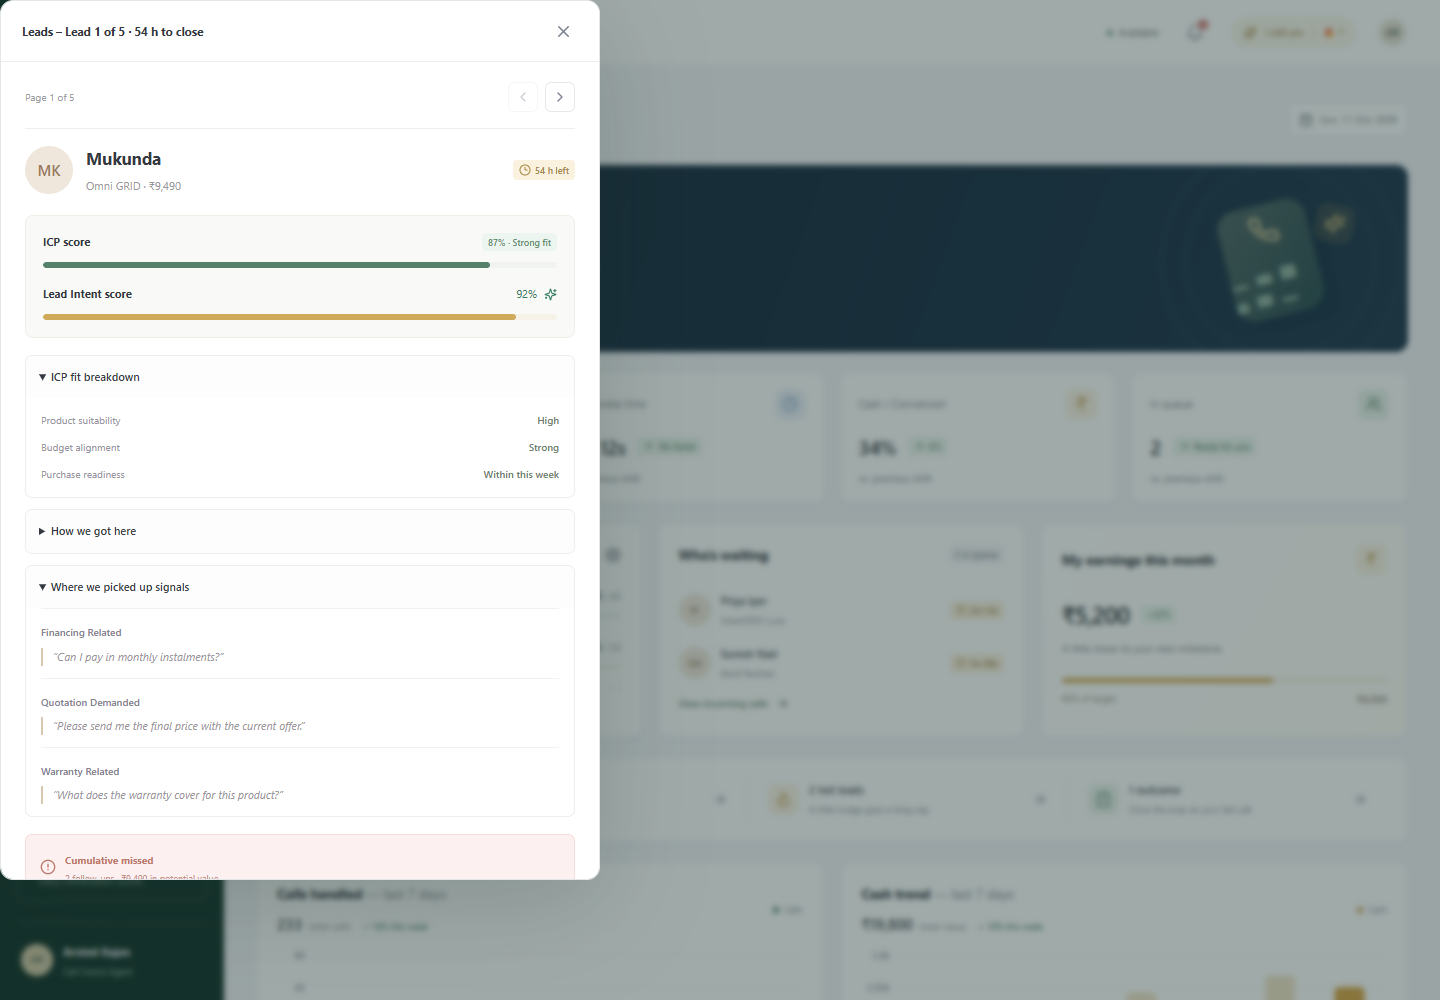
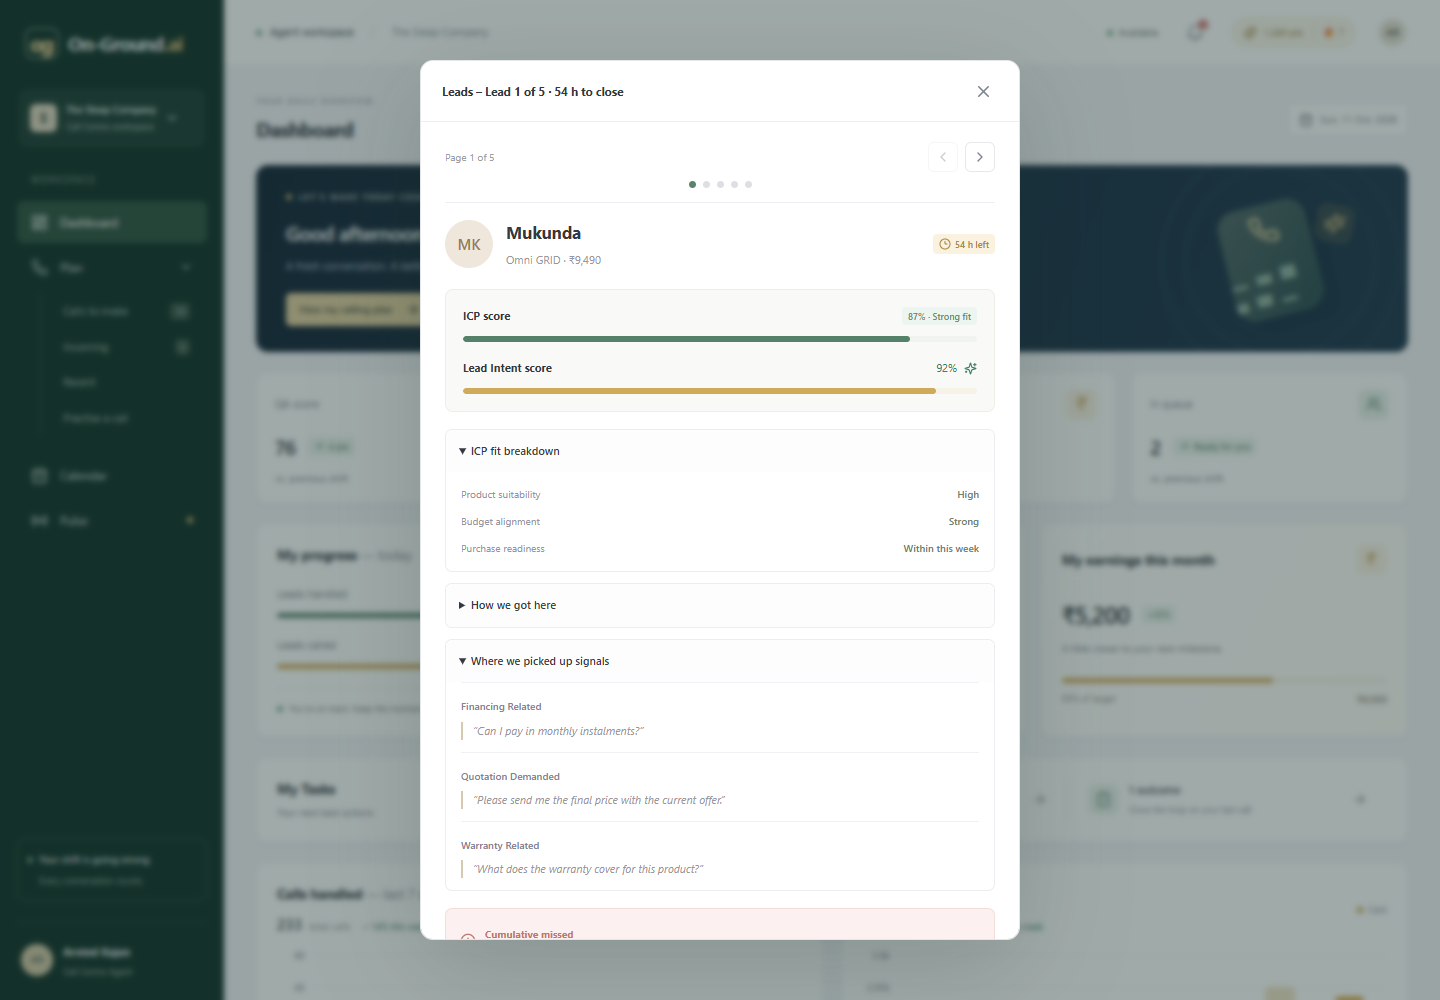
fix: center accessible dialogs and add lead navigation dots

diff --git a/src/components/Modal.tsx b/src/components/Modal.tsx
@@ -1,4 +1,4 @@
-import { useEffect, useRef, type ReactNode } from 'react';
+import { useEffect, useId, useRef, type ReactNode } from 'react';
 import { X } from 'lucide-react';
 export default function Modal({
   title,
@@ -12,6 +12,7 @@ export default function Modal({
   wide?: boolean;
 }) {
   const ref = useRef<HTMLDialogElement>(null);
+  const titleId = useId();
   useEffect(() => {
     const dialog = ref.current;
     const previous = document.activeElement;
@@ -27,6 +28,7 @@ export default function Modal({
   return (
     <dialog
       ref={ref}
+      aria-labelledby={titleId}
       className={`modal ${wide ? 'wide' : ''}`}
       onCancel={(event) => {
         event.preventDefault();
@@ -46,7 +48,7 @@ export default function Modal({
       }}
     >
       <div className="modal-header">
-        <h2>{title}</h2>
+        <h2 id={titleId}>{title}</h2>
         <button className="icon-button" onClick={onClose} aria-label="Close modal">
           <X size={19} />
         </button>

diff --git a/src/components/LeadsModal.tsx b/src/components/LeadsModal.tsx
@@ -14,6 +14,17 @@ export default function LeadsModal({ onClose }: { onClose: () => void }) {
       onClose={onClose}
     >
       <Pagination page={page} total={5} onChange={setPage} />
+      <div className="lead-dots" aria-label="Lead pages">
+        {leads.slice(0, 5).map((item, index) => (
+          <button
+            key={item.id}
+            aria-label={`View lead ${index + 1}: ${item.name}`}
+            aria-current={page === index ? 'true' : undefined}
+            className={page === index ? 'active' : ''}
+            onClick={() => setPage(index)}
+          />
+        ))}
+      </div>
       <div className="lead-profile">
         <span className="avatar large pastel">{lead.initials}</span>
         <div>

diff --git a/tests/workspace.spec.ts b/tests/workspace.spec.ts
@@ -11,6 +11,9 @@ test('dashboard and accessible lead review', async ({ page }) => {
   await page.screenshot({ path: 'docs/screenshots/dashboard.png', fullPage: true });
   await page.getByRole('button', { name: /2 callbacks/ }).click();
   await expect(page.getByRole('dialog')).toBeVisible();
+  const dialogBox = await page.getByRole('dialog').boundingBox();
+  expect(dialogBox).not.toBeNull();
+  expect(Math.abs(dialogBox!.x + dialogBox!.width / 2 - 720)).toBeLessThan(2);
   await expect(page.getByRole('heading', { name: 'Mukunda', exact: true })).toBeVisible();
   await page.screenshot({ path: 'docs/screenshots/leads.png' });
   await page.getByRole('button', { name: 'Next page', exact: true }).click();

diff --git a/src/styles.css b/src/styles.css
@@ -1736,6 +1736,9 @@ a svg {
   border-radius: 6px;
 }
 .modal {
+  margin: auto;
+  inset: 0;
+  height: fit-content;
   border: 1px solid #e5e6e9;
   border-radius: 13px;
   padding: 0;
@@ -1748,6 +1751,23 @@ a svg {
 }
 .modal.wide {
   width: min(600px, calc(100vw - 32px));
+}
+.lead-dots {
+  display: flex;
+  justify-content: center;
+  gap: 7px;
+  margin: -7px 0 14px;
+}
+.lead-dots button {
+  width: 7px;
+  height: 7px;
+  border: 0;
+  border-radius: 50%;
+  background: #dedee5;
+  padding: 0;
+}
+.lead-dots button.active {
+  background: #59846a;
 }
 .modal::backdrop {
   background: #122a2766;
